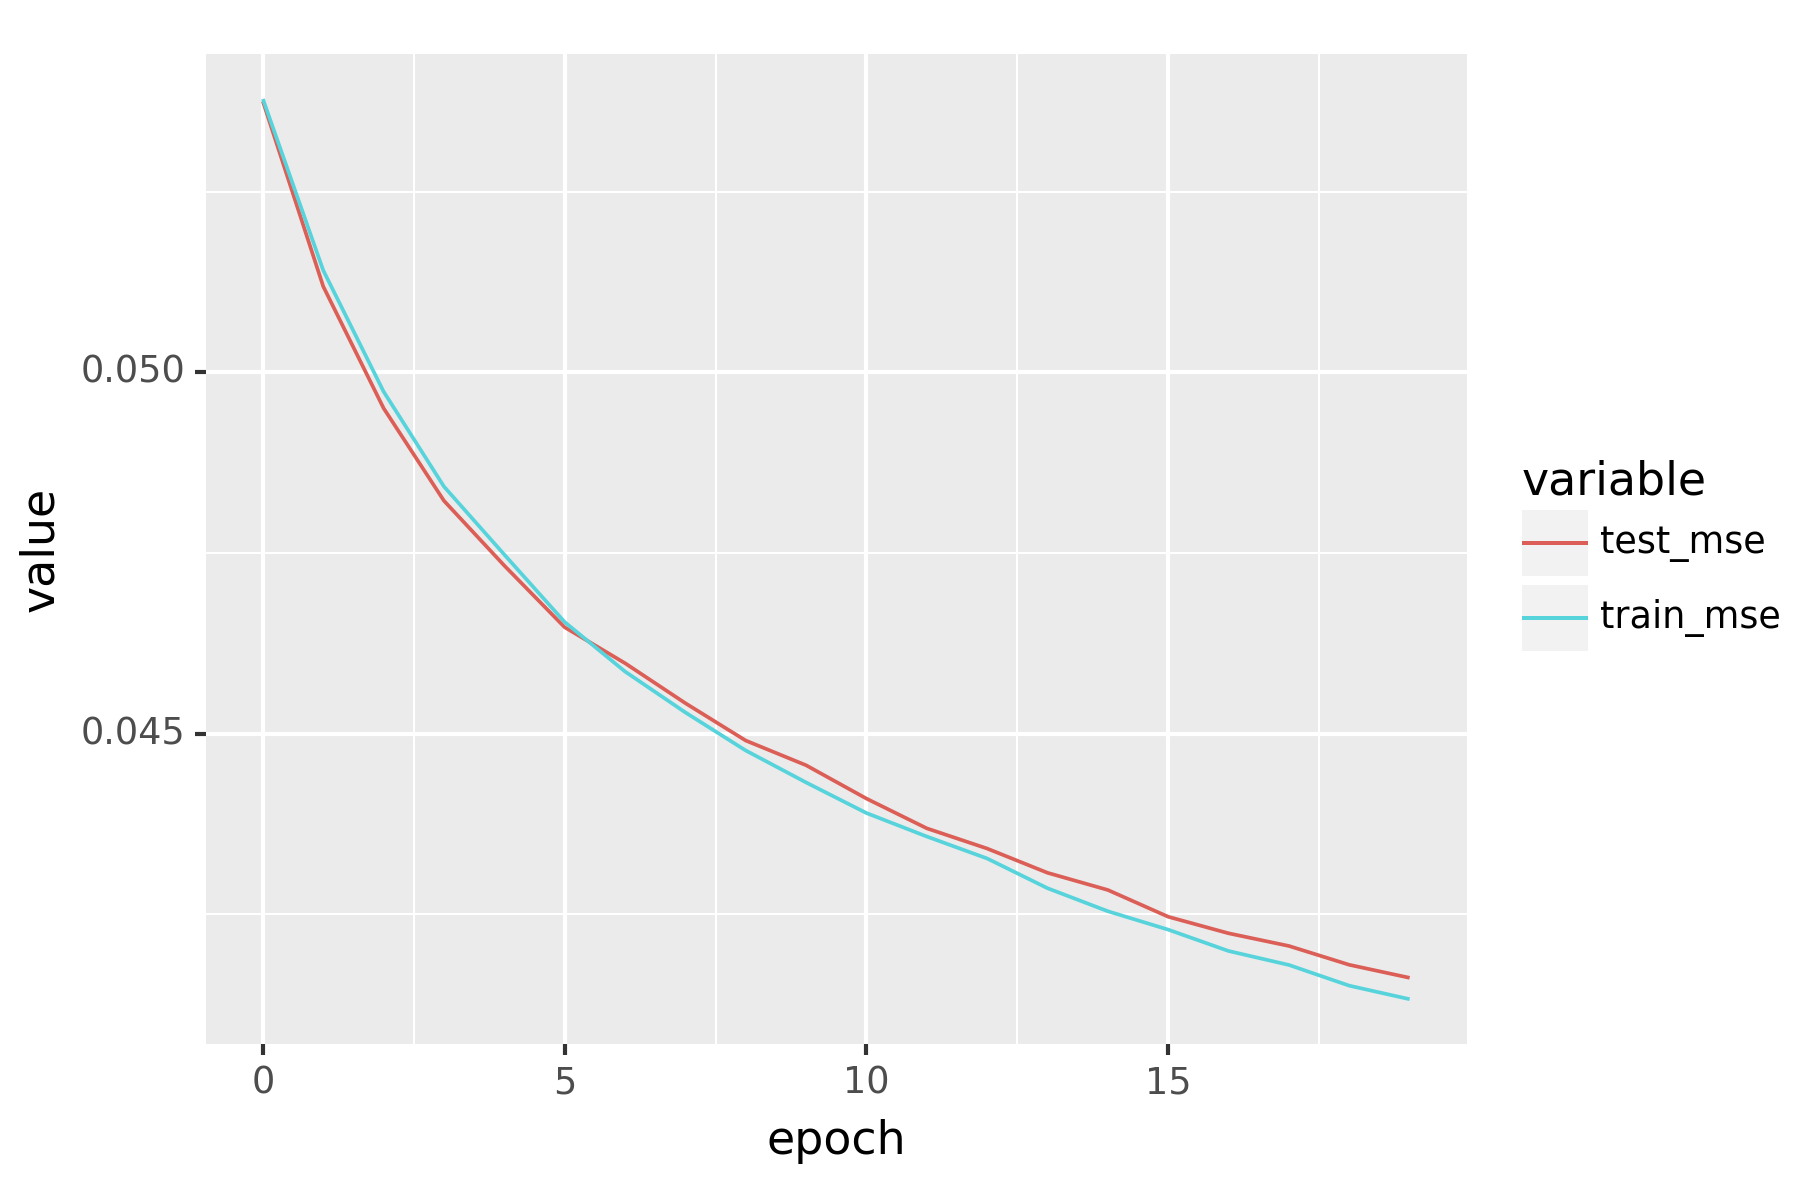
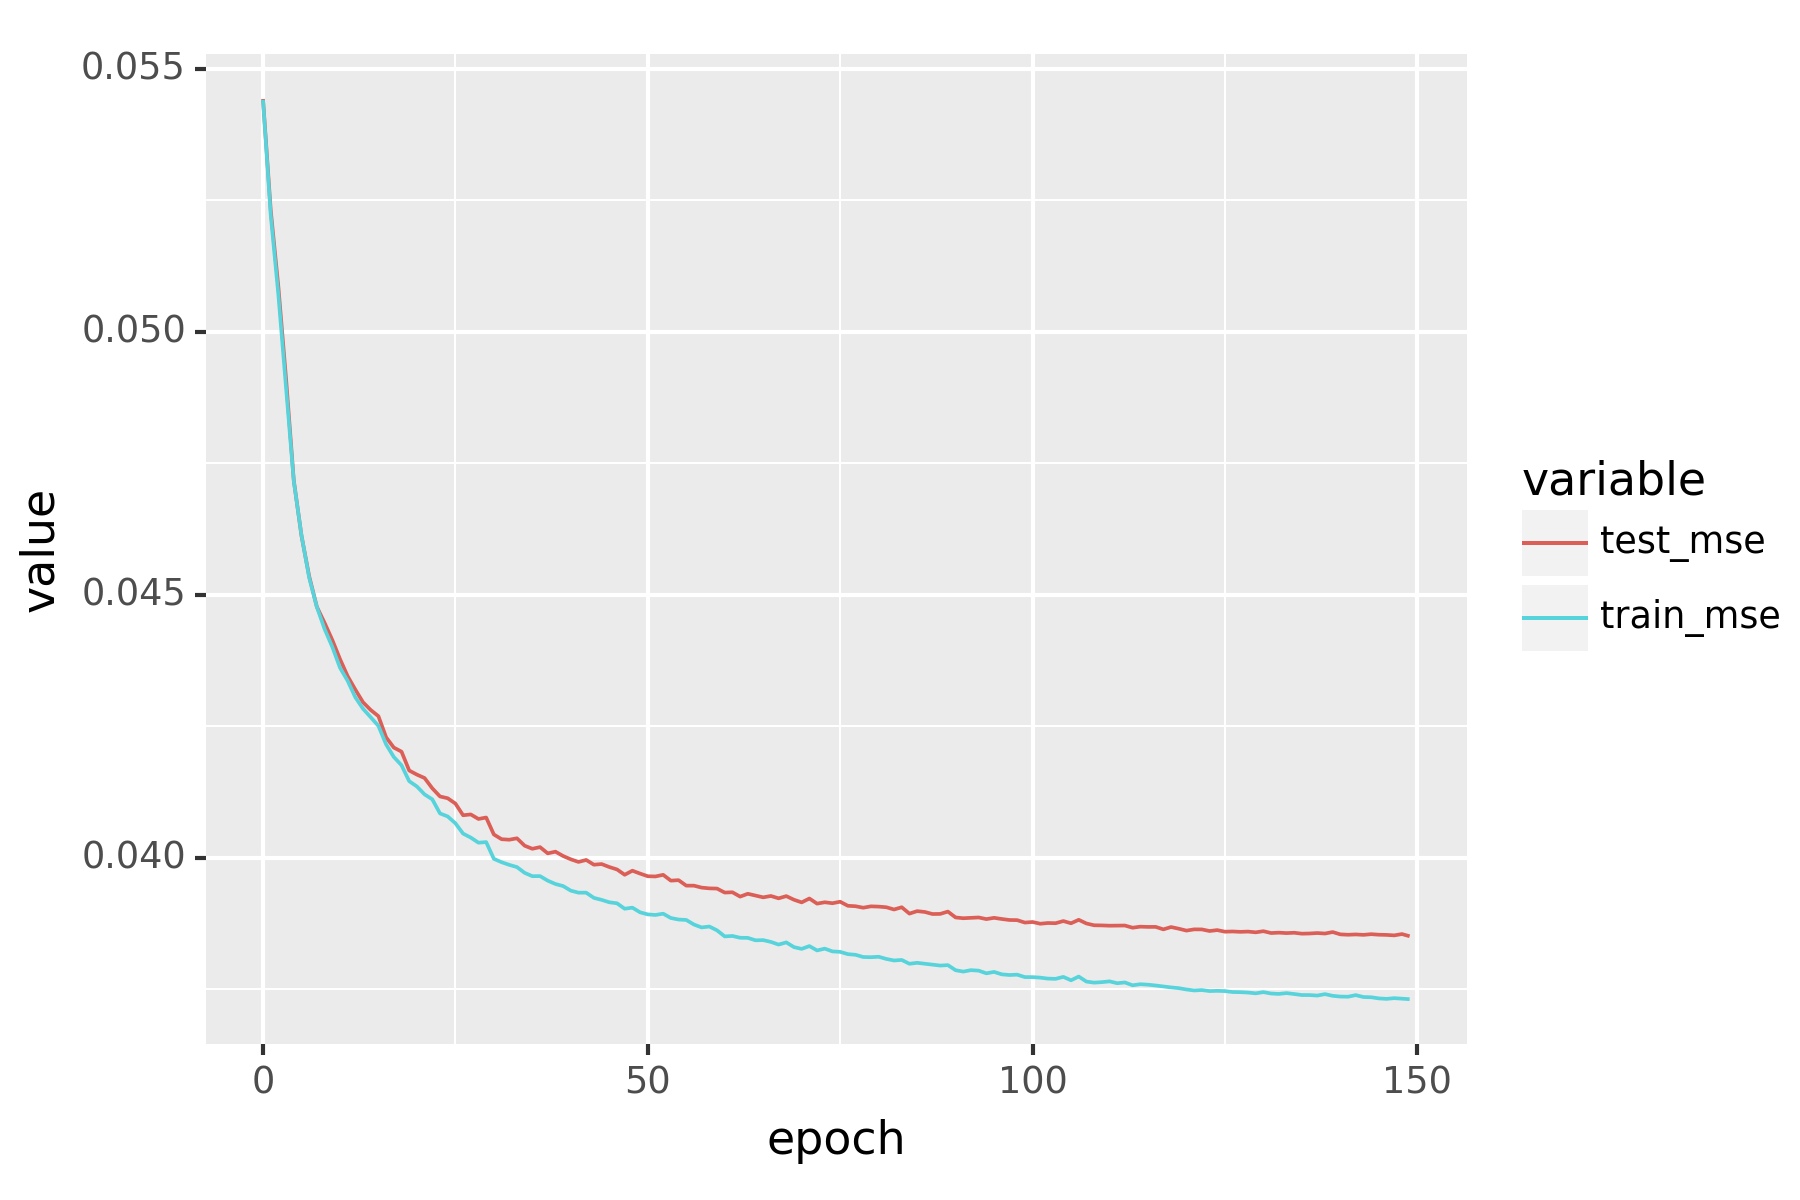
MNIST classification with pytorch, 150 iterations plot.

diff --git a/Deep_Autoencoder_Dimensionality_Reduction/main.py b/Deep_Autoencoder_Dimensionality_Reduction/main.py
@@ -47,5 +47,5 @@ df['label'] = y_test.detach().numpy().astype(str)
 
 p9 = (ggplot(data=df)+
         geom_point(aes(x='latent_var_1', y='latent_var_2', color='label')))
-p9.save(PLOTS_PATH / f"latent_space_MNIST_it{n_epochs}.png", width=6, height=4, dpi=300)
+p9.save(PLOTS_PATH / f"latent_space_MNIST_it{N_EPOCHS}.png", width=6, height=4, dpi=300)
 print(p9)

diff --git a/Deep_Autoencoder_Dimensionality_Reduction/config.py b/Deep_Autoencoder_Dimensionality_Reduction/config.py
@@ -7,7 +7,7 @@ if not os.path.exists(PLOTS_PATH):
     os.makedirs(PLOTS_PATH)
 
 BATCH_SIZE = 10
-N_EPOCHS = 100
+N_EPOCHS = 150
 GAMMA = 0.666
 SCHEDULER_STEP = 30
 LEARNING_RATE = 0.0001
